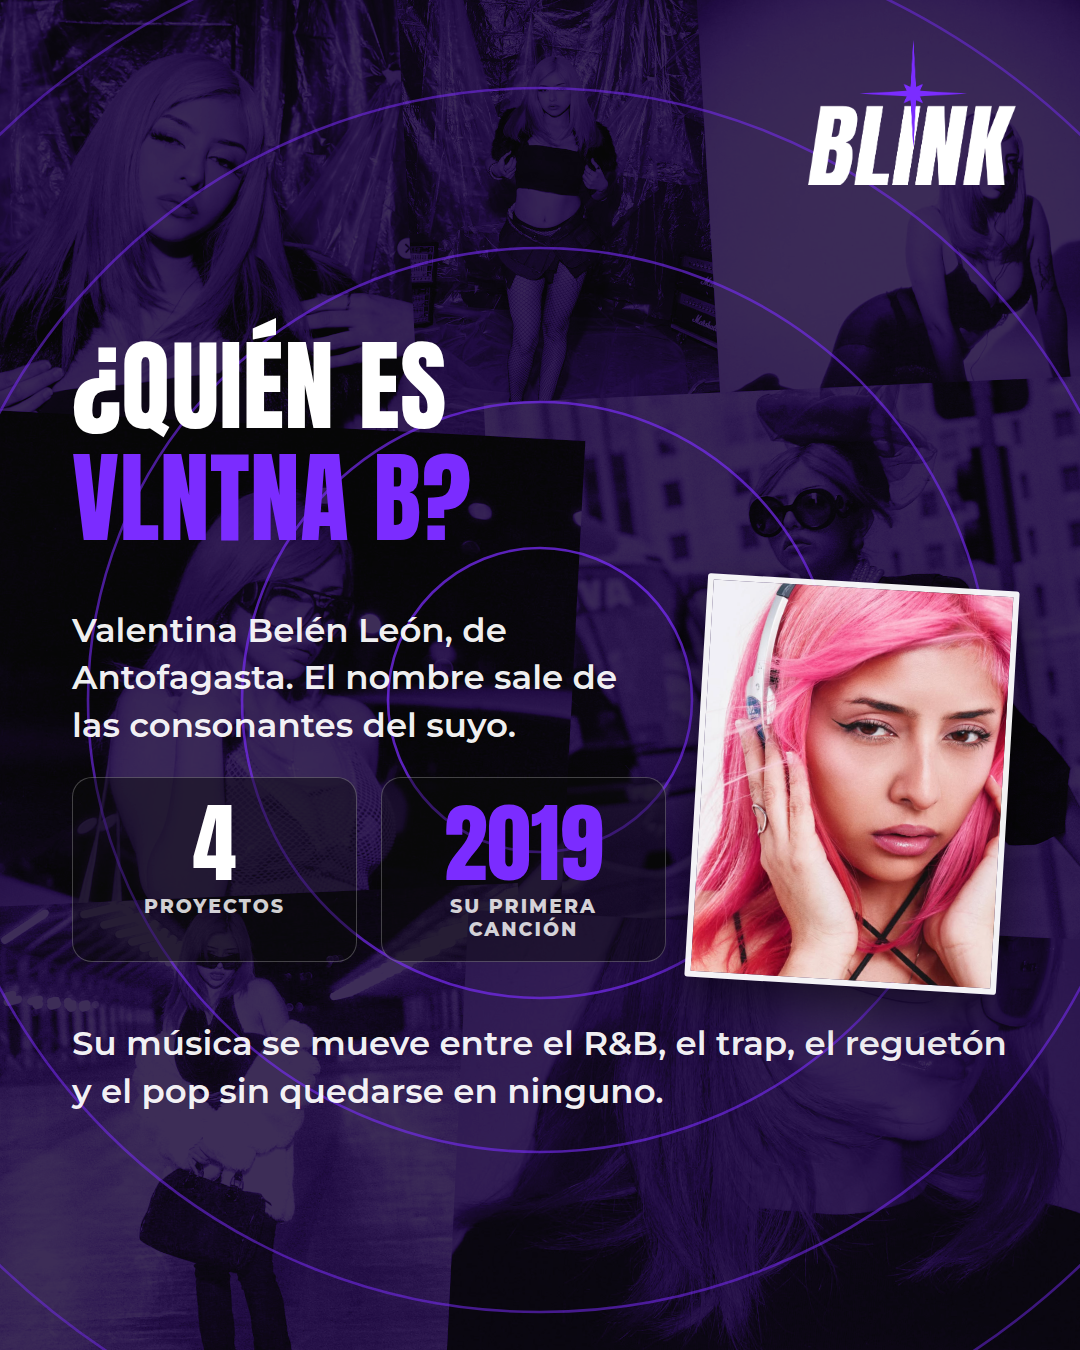
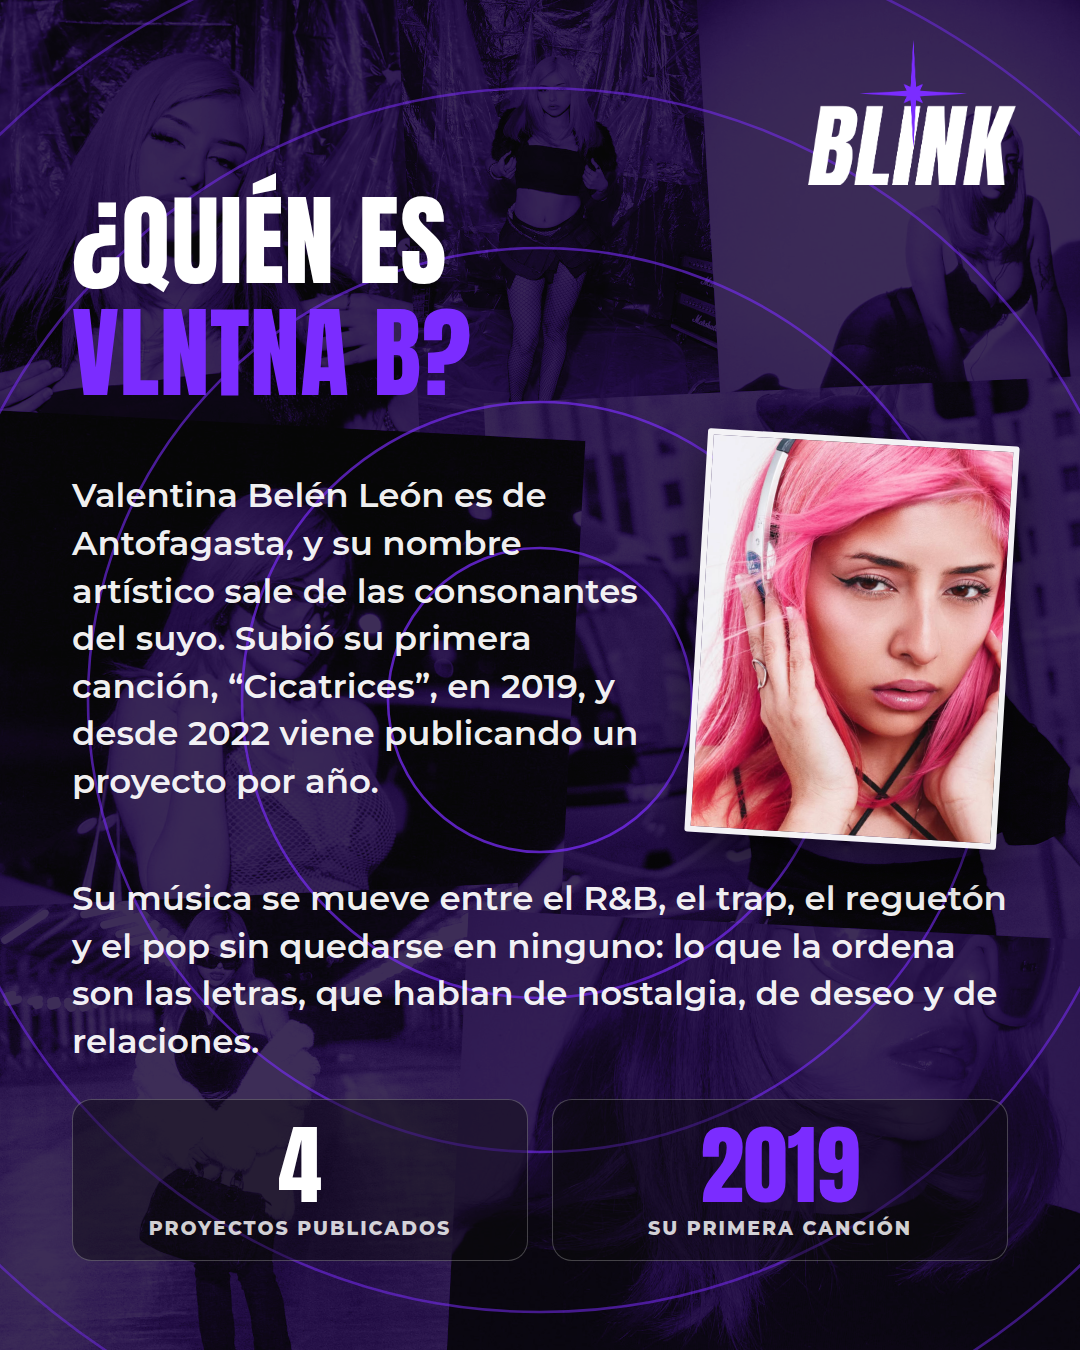
Radar de VLNTNA B: contexto en cada lámina y encuadres calculados
Segunda ronda de correcciones de Mia. Las cifras sueltas ya no van sin
explicación: la lámina de quién es cuenta de dónde sale el nombre, cuándo
subió "Cicatrices" y desde cuándo publica un proyecto por año. La del corno
francés enlaza la orquesta con el salto a Santiago en vez de dejar tres
hechos pegados.

Las pastillas de colaboradores ahora llevan la canción que hicieron juntos.
Los tres singles de 2026 pasan a filas con descripción, una línea por
canción que dice qué cambió en cada una. La lámina del show cambia el
titular por "Toda esta era, en una noche" y dice qué se va a escuchar.

Los encuadres de las fotos salen de la fórmula y no a ojo: la de la lámina
cuatro mostraba solo la frente.

Las cuatro reglas nuevas quedan en CLAUDE.md, incluida "completo" en vez de
"entero".

Claude-Session: https://claude.ai/code/session_01NF4PN4Z1tGA2GQg6PseM5W

diff --git a/radar-vlntnab.html b/radar-vlntnab.html
@@ -143,6 +143,7 @@
 
   .parDeFotos{ display:flex; gap:26px; }
   .parDeFotos .recorte{ flex:1; height:300px; }
+  .parDeFotos.corta .recorte{ height:264px; }
   .parDeFotos .recorte:first-child{ transform:rotate(-2.2deg); }
   .parDeFotos .recorte:last-child{ transform:rotate(2deg); }
   .parDeFotos .recorte:first-child img{ object-position:50% 6%; }
@@ -156,8 +157,10 @@
   .sangra img{ transform:scale(1.18); object-position:50% 8%; }
 
   /* En las láminas con foto sangrada, el texto se queda en su mitad. */
+  .cuerpo.apretado{ gap:26px; }
   .cuerpo.angosto .texto, .cuerpo.angosto .destacado{ max-width:636px; }
   .cuerpo.angosto .ticket{ max-width:752px; }
+  .cuerpo.angosto .filas, .cuerpo.angosto .filasDesc{ max-width:636px; }
 
   /* una foto ancha, de borde a borde de la caja */
   .fotoAncha{ height:306px; transform:rotate(-1.4deg); }
@@ -184,7 +187,7 @@
   .filas .fila{
     display:flex; align-items:center; justify-content:space-between; gap:22px;
     border-top:1.5px solid rgba(255,255,255,.26);
-    padding:24px 2px 22px;
+    padding:18px 2px 16px;
   }
   .filas .fila b{
     font-family:"Anton", sans-serif; font-weight:400; font-size:62px;
@@ -198,18 +201,51 @@
     color:rgba(255,255,255,.88); text-transform:uppercase;
   }
 
-  /* pastillas con nombres, ladeadas: una nube en vez de una enumeración */
+  /* pastillas con nombres, ladeadas: una nube en vez de una enumeración.
+     Cada una lleva además la canción que hicieron juntos, que es el dato que
+     convierte la lista de nombres en información. */
   .chips{ display:flex; flex-wrap:wrap; gap:18px 16px; }
   .chips span{
-    display:block;
-    border:2px solid rgba(255,255,255,.40); border-radius:999px;
-    background:rgba(10,10,10,.48); padding:13px 28px 11px;
-    font-family:"Anton", sans-serif; font-size:44px; line-height:1;
-    letter-spacing:.5px; color:var(--blanco); text-transform:uppercase;
+    display:flex; flex-direction:column; align-items:flex-start; gap:3px;
+    border:2px solid rgba(255,255,255,.40); border-radius:30px;
+    background:rgba(10,10,10,.54); padding:14px 27px 13px;
+  }
+  .chips span b{
+    font-family:"Anton", sans-serif; font-weight:400; font-size:42px;
+    line-height:1; letter-spacing:.5px; color:var(--blanco); text-transform:uppercase;
+  }
+  .chips span u{
+    text-decoration:none; font-weight:700; font-size:21px;
+    color:rgba(255,255,255,.80);
   }
   .chips span:nth-child(odd){ transform:rotate(-1.6deg); }
   .chips span:nth-child(even){ transform:rotate(1.4deg); }
-  .chips span.morada{ border-color:var(--morado); color:var(--morado); }
+  .chips span.morada{ border-color:var(--morado); }
+  .chips span.morada b{ color:var(--morado); }
+
+  /* filas con descripción: para cuando cada nombre necesita una línea que
+     explique qué es, y no solo una etiqueta */
+  .filasDesc{ display:flex; flex-direction:column; }
+  .filasDesc .fila{
+    border-top:1.5px solid rgba(255,255,255,.26);
+    padding:20px 2px 18px;
+  }
+  .filasDesc .cab{ display:flex; align-items:center; justify-content:space-between; gap:20px; }
+  .filasDesc .cab b{
+    font-family:"Anton", sans-serif; font-weight:400; font-size:58px;
+    line-height:1; letter-spacing:.5px; color:var(--blanco);
+  }
+  .filasDesc .cab i{
+    flex:none; font-style:normal;
+    border:1.5px solid rgba(255,255,255,.34); border-radius:999px;
+    padding:8px 20px;
+    font-weight:800; font-size:19px; letter-spacing:2.2px;
+    color:rgba(255,255,255,.88); text-transform:uppercase;
+  }
+  .filasDesc p{
+    margin-top:10px; max-width:600px;
+    font-weight:600; font-size:27px; line-height:1.34; color:rgba(255,255,255,.90);
+  }
 
   /* la entrada del show, dibujada como lo que es: un talón */
   .ticket{
@@ -328,13 +364,21 @@ function filas(items){
     '<div class="fila"><b>' + f[0] + '</b><i>' + f[1] + '</i></div>').join("") + '</div>';
 }
 
-function chips(nombres){
-  return '<div class="chips">' + nombres.map((n, i) =>
-    '<span' + (i % 3 === 1 ? ' class="morada"' : '') + '>' + n + '</span>').join("") + '</div>';
+function chips(pares){
+  return '<div class="chips">' + pares.map((n, i) =>
+    '<span' + (i % 3 === 1 ? ' class="morada"' : '') + '>' +
+    '<b>' + n[0] + '</b><u>' + n[1] + '</u></span>').join("") + '</div>';
 }
 
-function recorte(src, clase){
-  return '<div class="recorte ' + (clase || '') + '"><img src="' + src + '" alt=""></div>';
+function filasDesc(items){
+  return '<div class="filasDesc">' + items.map(f =>
+    '<div class="fila"><div class="cab"><b>' + f[0] + '</b><i>' + f[1] + '</i></div>' +
+    '<p>' + f[2] + '</p></div>').join("") + '</div>';
+}
+
+function recorte(src, clase, pos){
+  return '<div class="recorte ' + (clase || '') + '"><img src="' + src + '" alt=""' +
+    (pos ? ' style="object-position:' + pos + '"' : '') + '></div>';
 }
 
 const LAMINAS = {
@@ -357,27 +401,31 @@ const LAMINAS = {
       titular("¿Quién es", "VLNTNA B?") +
       '<div class="conFoto">' +
         '<div class="columna">' +
-          '<p class="texto">Valentina Belén León, de Antofagasta. El nombre sale de ' +
-          'las consonantes del suyo.</p>' +
-          '<div class="cifras">' +
-            '<div class="caja"><div class="numero">4</div>' +
-              '<div class="que">Proyectos</div></div>' +
-            '<div class="caja morada"><div class="numero">2019</div>' +
-              '<div class="que">Su primera canción</div></div>' +
-          '</div>' +
+          '<p class="texto">Valentina Belén León es de Antofagasta, y su nombre ' +
+          'artístico sale de las consonantes del suyo. Subió su primera canción, ' +
+          '“Cicatrices”, en 2019, y desde 2022 viene publicando un proyecto por año.</p>' +
         '</div>' +
         recorte("vlntnb4.png") +
       '</div>' +
       '<p class="texto">Su música se mueve entre el R&amp;B, el trap, el reguetón y ' +
-      'el pop sin quedarse en ninguno.</p>' +
+      'el pop sin quedarse en ninguno: lo que la ordena son las letras, que hablan ' +
+      'de nostalgia, de deseo y de relaciones.</p>' +
+      '<div class="cifras">' +
+        '<div class="caja"><div class="numero">4</div>' +
+          '<div class="que">Proyectos publicados</div></div>' +
+        '<div class="caja morada"><div class="numero">2019</div>' +
+          '<div class="que">Su primera canción</div></div>' +
+      '</div>' +
     '</div>' },
 
   3: { html:
     '<div class="cuerpo angosto">' +
       titular("Del corno francés", "a Primavera Sound") +
-      '<p class="texto">Aprendió a leer partituras en la orquesta de su colegio. En ' +
-      '2022 la anunciaron en el cartel de Primavera Sound Chile, congeló la carrera ' +
-      'que estudiaba y se fue a Santiago.</p>' +
+      '<p class="texto">Antes de la música urbana estuvo tres años tocando corno ' +
+      'francés en la orquesta de su colegio, que es donde aprendió a leer partituras. ' +
+      'Seguía estudiando Administración Pública en Antofagasta cuando la anunciaron ' +
+      'en el cartel de Primavera Sound Chile 2022: congeló quinto año y se fue a ' +
+      'vivir a Santiago para dedicarse a esto.</p>' +
       '<div class="destacado">' + DESTELLO +
         '<p><span class="dijo">“Una de las grandes brechas que existe es la súper ' +
         'poca descentralización en las artes”</span></p>' +
@@ -386,7 +434,7 @@ const LAMINAS = {
     recorte("vlntnb2.png", "sangra") },
 
   4: { html:
-    '<div class="cuerpo">' +
+    '<div class="cuerpo apretado">' +
       titular("Cuatro proyectos", "en cuatro años") +
       filas([
         ["FEELS",       "EP · 2022"],
@@ -394,37 +442,50 @@ const LAMINAS = {
         ["MAL AUGURIO", "Mixtape · 2024"],
         ["LOTO",        "EP · 2025"]
       ]) +
-      recorte("vlntnb5.png", "fotoAncha") +
+      '<p class="texto">AQUA son trece canciones sobre sus años entre Antofagasta ' +
+      'y Santiago; de LOTO, el más nuevo, salió “Rodeada de flores”.</p>' +
+      '<div class="parDeFotos corta">' +
+        recorte("vlntnb5.png", "", "50% 31%") +
+        recorte("vlntnb7.png", "", "42% 5%") +
+      '</div>' +
     '</div>' },
 
   5: { html:
     '<div class="cuerpo angosto">' +
       titular("Con quiénes", "ha grabado") +
-      chips(["Kidd Voodoo", "Easykid", "Ceaese", "DURAN", "Akatumamy",
-             "Shirel", "KYA", "Face"]) +
-      '<p class="texto">Su primer EP, FEELS, lo hizo entero con KYA.</p>' +
+      chips([
+        ["Kidd Voodoo", "“Dime”"],
+        ["Easykid",     "“Zúmbate”"],
+        ["Ceaese",      "“Dancin’”"],
+        ["DURAN",       "“Pensando en mí”"],
+        ["Akatumamy",   "“de to’”"],
+        ["Shirel",      "“Otra nota”"]
+      ]) +
+      '<p class="texto">Su primer EP, FEELS, lo hizo completo junto a KYA, y de ahí ' +
+      'salió “Jui$y”.</p>' +
     '</div>' +
     recorte("vlntnb.png", "sangra") },
 
   6: { html:
-    '<div class="cuerpo">' +
+    '<div class="cuerpo angosto">' +
       titular("2026: del R&amp;B", "al pop electrónico") +
-      '<p class="texto">Este año se fue al pop, a la electrónica y al hyperpop, con ' +
-      'la estética de los 2000: la de MTV y VH1.</p>' +
-      filas([
-        ["A MI MANERA", "Mayo"],
-        ["PACTO",       "Junio"],
-        ["TENSiON",     "Agosto"]
+      filasDesc([
+        ["A MI MANERA", "Mayo",
+         "Abrió la etapa con un sonido más oscuro y sensual que todo lo anterior."],
+        ["PACTO", "Junio",
+         "Mezcló pop, reguetón y electrónica, y metió dos ambientes distintos dentro de una misma canción."],
+        ["TENSiON", "Agosto",
+         "Se fue derecho al hyperpop, con la estética del pop de los 2000: la de MTV y VH1."]
       ]) +
-      '<div class="parDeFotos">' +
-        recorte("vlntnb6.png") + recorte("vlntnb7.png") +
-      '</div>' +
-    '</div>' },
+    '</div>' +
+    recorte("vlntnb6.png", "sangra") },
 
   7: { html:
     '<div class="cuerpo angosto">' +
-      titular("Y la presenta", "en vivo") +
-      '<p class="texto">Las canciones nuevas y las de antes, en un mismo show.</p>' +
+      titular("Toda esta era,", "en una noche") +
+      '<p class="texto">El 27 de noviembre hace IT GIRL: The Show en la Sala SCD ' +
+      'Bellavista, donde las canciones de esta etapa se van a escuchar al lado de ' +
+      'las de AQUA, MAL AUGURIO y LOTO.</p>' +
       '<div class="ticket">' +
         '<div class="lado"><b>It Girl:<em> The Show</em></b>' +
           '<span>Sala SCD Bellavista, Santiago</span></div>' +
@@ -435,12 +496,14 @@ const LAMINAS = {
     recorte("vlntnb8.png", "sangra") },
 
   8: { html:
-    '<div class="cuerpo">' +
+    '<div class="cuerpo apretado">' +
       titular("Hoy estrena", "DIVA") +
+      '<p class="texto">DIVA toma la palabra y la convierte en una declaración de ' +
+      'autonomía y de límites propios, con Charli XCX y Madonna de referencia.</p>' +
       '<div class="video">' +
         '<div class="marco">' + PLAY + '</div>' +
-        '<div class="texto-video"><b>Electropop, con Charli XCX y Madonna de ' +
-          'referencia</b><span>Producido por Nicolás Chávez y Armijo</span></div>' +
+        '<div class="texto-video"><b>“DIVA”, el nuevo single de VLNTNA B</b>' +
+          '<span>Electropop producido por Nicolás Chávez y Armijo</span></div>' +
       '</div>' +
     '</div>' },
 
@@ -485,8 +548,9 @@ caja.innerHTML = fondo() + (L.portada ? '<div class="halo"></div>' : '') + radar
   const r = caja.querySelector(".cierre .remate");
   if (r) achicar(r, 132, 70, 936);
   caja.querySelectorAll(".filas .fila b").forEach(s => achicar(s, 62, 34, 600));
+  caja.querySelectorAll(".filasDesc .cab b").forEach(s => achicar(s, 58, 32, 460));
   const t = caja.querySelector(".ticket .lado b");
-  if (t) achicar(t, 86, 44, 560);
+  if (t) achicar(t, 86, 42, 382);
 
   document.title = fuentesOk ? "listo" : "FALTAN LAS FUENTES";
 })();

diff --git a/CLAUDE.md b/CLAUDE.md
@@ -87,6 +87,7 @@ usando lo que ella ya escribió:
 | **"canciones"** | "temas" |
 | "llega el segundo estreno" | "llega el otro" |
 | "a través de sus redes sociales" | "en redes" |
+| "lo hizo completo con…" | "lo hizo entero con…" |
 | "estoy segura de que…" | hedging o entusiasmo vacío |
 | las horas en números: 19:00, 21:00 | "a las siete", "a las nueve" |
 
@@ -513,6 +514,17 @@ viene, de dónde salió este— directo y explicativo.
   cifras—. Si una lámina es solo texto, le falta.
 - **El cierre de Blink va en su propia lámina**: "Síguenos para más", la cuenta y
   "Parpadeas y te lo pierdes". Nunca pegado al final de la lámina del estreno.
+- **Cortar texto no es decir las cosas a la rápida.** Mia me devolvió la segunda
+  versión del Radar de VLNTNA B por lo contrario que la primera: un dato suelto sin
+  explicar —"2019 · su primera canción"— no dice nada, y tres hechos pegados uno
+  tras otro vuelven a sonar a punteo. El punto medio es un párrafo que enlaza los
+  hechos y los explica, no tres frases sueltas ni una pared de texto.
+- **Al nombrar colaboradores va también la canción que hicieron juntos.** La lista
+  de nombres sola no informa; el nombre con su canción al lado sí. En las pastillas
+  entra abajo, más chica y entre comillas.
+- **Los titulares de las láminas que venden algo** —un show, un estreno— tienen que
+  dar contexto y dar ganas. "Y la presenta en vivo" no vende nada; "Toda esta era,
+  en una noche" dice qué se va a ver.
 - **Si un dato no da para lámina propia, se menciona donde encaje.** No se estira
   un solo hecho a pantalla completa para rellenar.
 - Los rótulos tienen que decir **qué es** la cosa que nombran.
